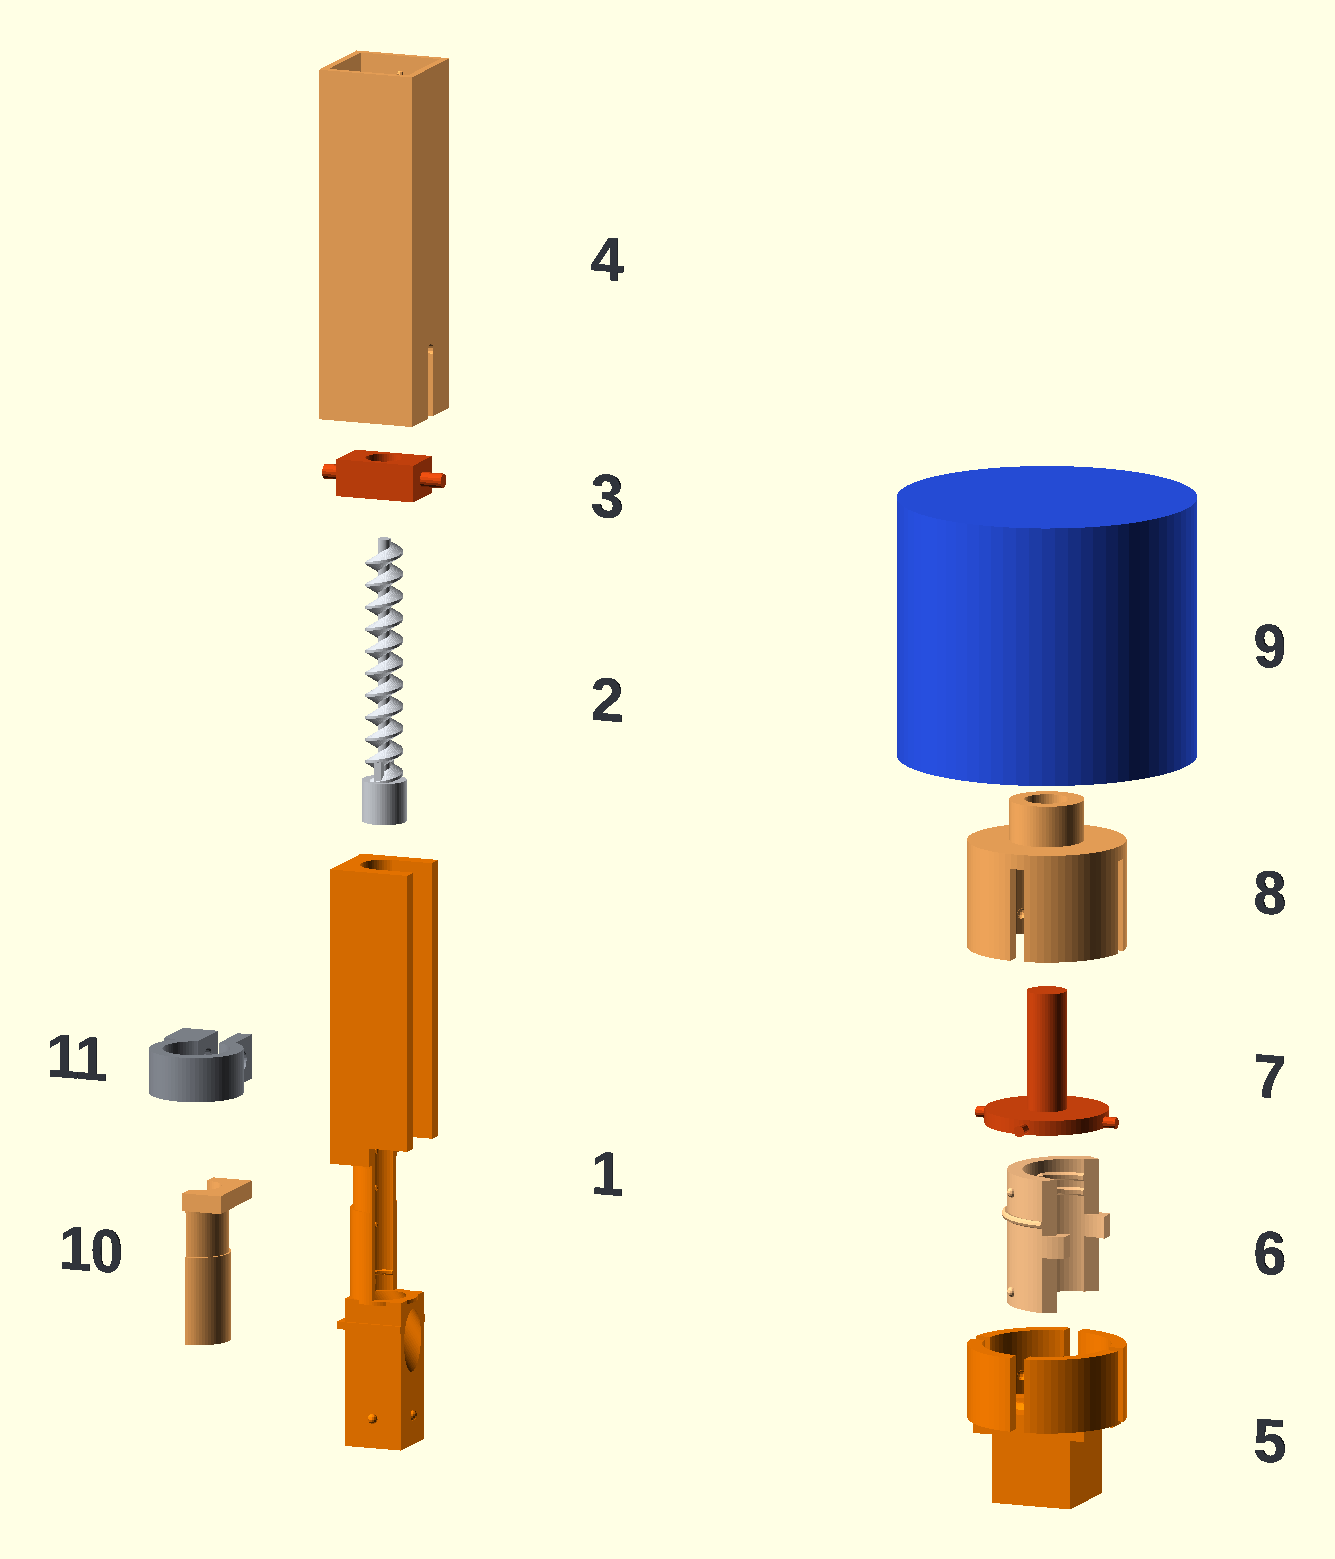
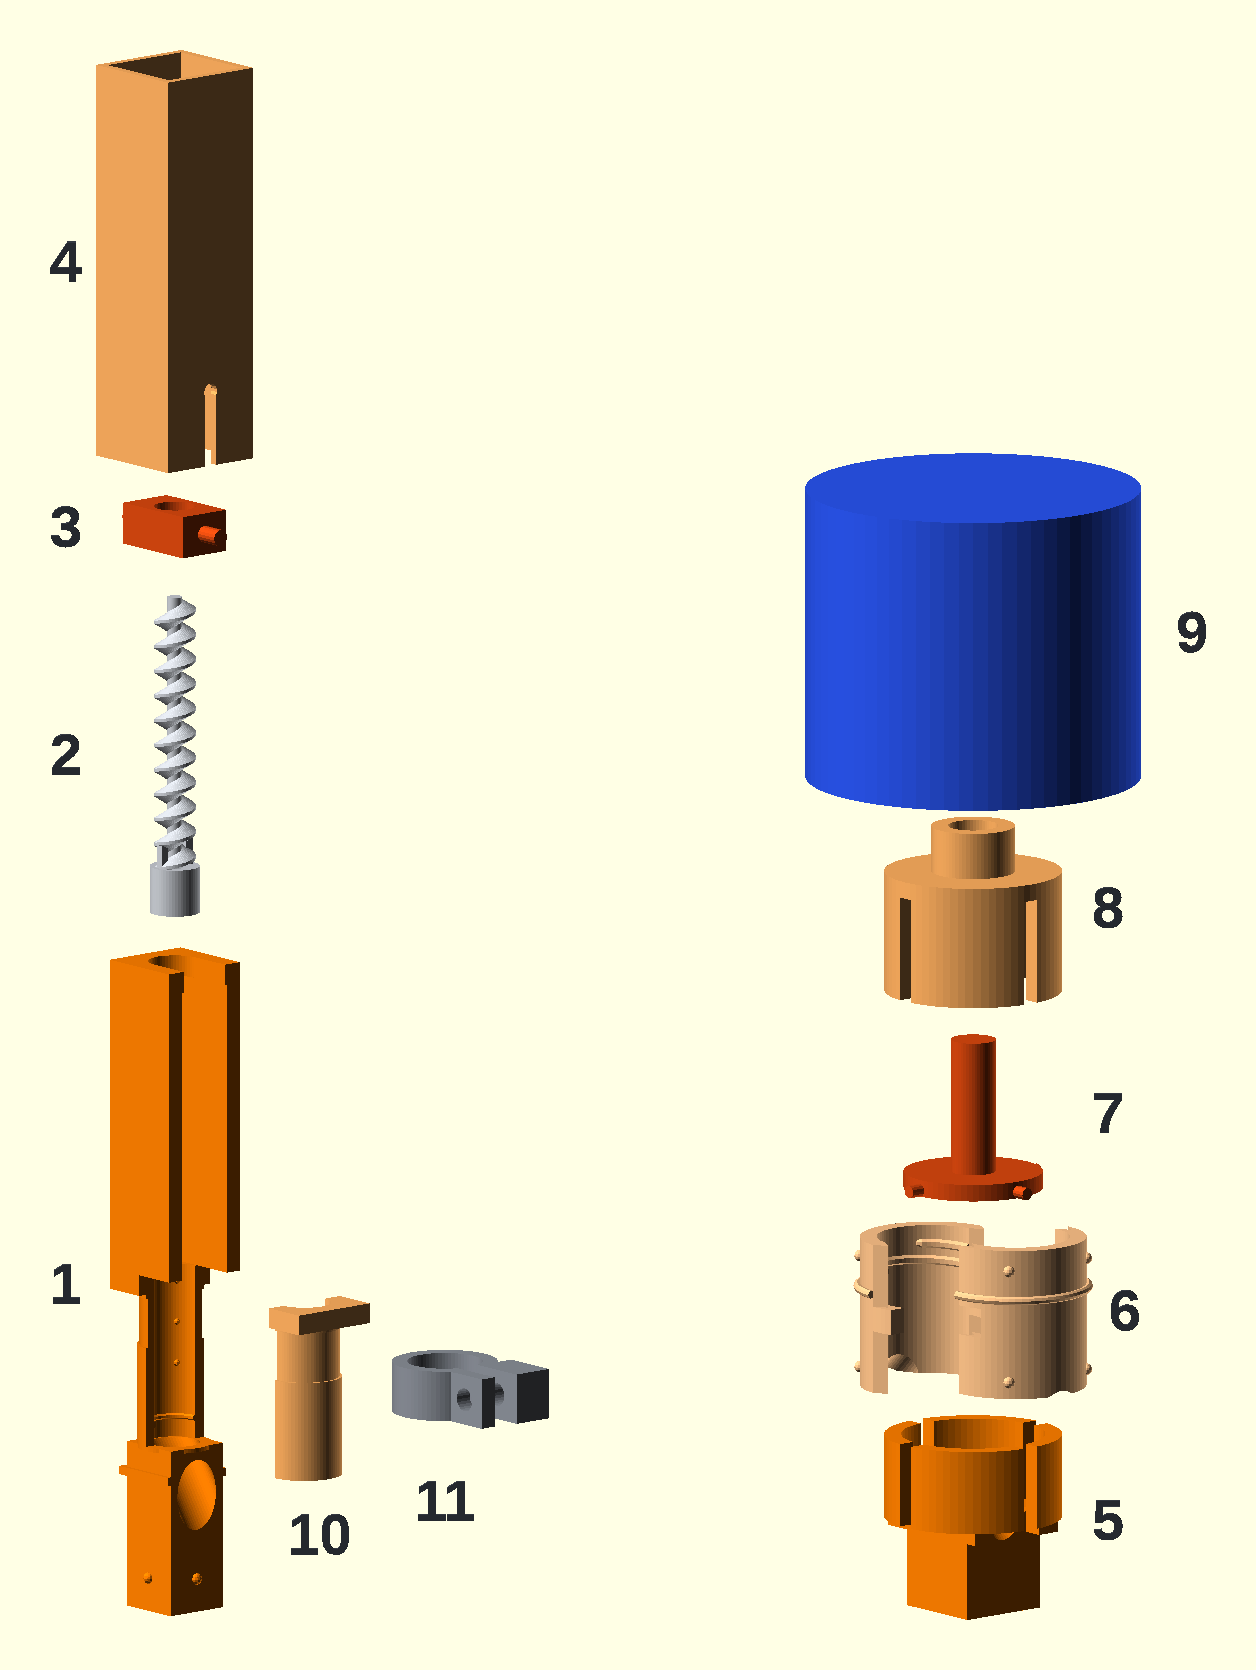
Add exploded views to the redesign workbook
Nine numbered OpenSCAD views taken apart, one for the whole device on the
workbook page and one each for steps 20, 24, 25, 26, 28 and 29. The view of
the actuator module in step 27 now shows the open half of the motor bay
with the detachable half beside it, and both halves of the split button
cylinder. The file timeline chart is redrawn for the page width and the
power diagram of step 29 runs top to bottom.

Claude-Session: https://claude.ai/code/session_01F3HmiRBuF2MN42cKPm81RC

diff --git a/content/MooMoo Redesign/index.md b/content/MooMoo Redesign/index.md
@@ -13,6 +13,9 @@ The redesign had four aims that run through all ten steps.
 - Put the computer, the drivers and the power inside one casing and run it from a power bank
 - Keep tuning the printed fits one number at a time, and keep every version
 
+![[MooMooRedesign_00_device_exploded.png]]
+The redesigned device taken apart in OpenSCAD. 1 bottom shell, 2 Raspberry Pi on its sliding plate, 3 the six actuator modules, 4 middle shell, 5 power bank in its pocket, 6 the two speakers, 7 top shell, 8 key, 9 head. The Pi, the power bank and the speakers are drawn as plain blocks of the size the sources allow for, everything else is imported from the SCAD files of May 2026
+
 ## How this workbook was written
 The steps were reconstructed from the project folder and not from a diary. Every dimension comes from an OpenSCAD source file, every print setting from a PrusaSlicer project, every electrical rule from the Pi code, and every date from the time a file was last saved, converted to Toronto time. The folder holds 175 design files, 47 OpenSCAD sources, 123 STL exports and 5 slicer projects, and 77 source files of Pi code and setup app. The images were rendered in OpenSCAD 2021.01 with the BOSL2 library from the same sources at a lower resolution. Parts are coloured orange and blue because those are the filament colours stored in the slicer projects. Where an image contains something that is not in the source files, such as the outline of a Raspberry Pi or a block standing in for the power bank, the caption says so.
 

diff --git a/content/MooMoo Redesign/24. Splitting the motor casing. Detachable half, clamp ring and a plug in base.md b/content/MooMoo Redesign/24. Splitting the motor casing. Detachable half, clamp ring and a plug in base.md
@@ -31,6 +31,9 @@ The module is what plugs into the bottom shell. Its square base of 8.1 mm drops 
 Reading the dates back, 20 April 2026 is the day the closed tube was given up. The body is cut in two at 16:14 and the question of how to hold the halves together is answered twice before 21:00. The first answer is a thin snap ring with two pins, exported and revised within eleven minutes. Twenty minutes later it is replaced by a different mechanism, a ring with ears and a bolt, and that one is then exported five times between 19:38 and 20:36. The names say what happened at the printer that evening. Even bigger, very big, medium. Two weeks later the search runs the other way, toward smaller and stronger, and ends at 00:22 on 8 May. The slicer project of 12 May (step 27) confirms which parts won. It holds `ShaftBodyAdjustedKraweznik`, `ShaftBodySm` and `clampsmallerStronger`.
 
 # Prototyping
+![[MooMooRedesign_24_motor_casing_exploded.png]]
+The split motor casing. 1 main casing with the open half of the motor bay, 2 detachable half, 3 clamp ring, 4 the three closed around the bay. The motor and the bolt are not in the files
+
 ![[MooMooRedesign_24_shaftbody_split.png]]
 OpenSCAD view of `ShaftBody.scad` and `ShaftBodyAdjustedKraweznik.scad`. 1 main casing with the motor bay open, 2 detachable half, 3 clamp ring, 4 main casing of the stopper version with the plate above the square base
 

diff --git a/content/MooMoo Redesign/26. Printed lead screw v1 to v5 and the elevator nut.md b/content/MooMoo Redesign/26. Printed lead screw v1 to v5 and the elevator nut.md
@@ -32,6 +32,9 @@ The screw was taken out of the actuator file and given its own source on 5 May (
 Reading the dates back, 12 May is one of the two densest days of the whole folder with 21 design files, one fewer than the day before. The screw exports are 105, 43, 32, 6, 39, 26, 24, 104 and 25 minutes apart. The names tell the first half of the day in plain words. Longer shaft, larger D shaft, deeper hole again, then everything. After that the names give up describing and start counting, v1 to v5, which is what happens when the changes become too small or too many to name. The two long gaps of about 105 minutes sit at the start and before v4. The day ends with the nut and not the screw. At 22:11 the elevator is exported with a bigger slop, so the last problem of the day was the fit between the two and the answer was to open up the nut. The slicer project for v5 was saved five minutes after midnight.
 
 # Prototyping
+![[MooMooRedesign_26_screw_nut_lifter_exploded.png]]
+1 screw v5 with the D shaft socket at its foot, 2 elevator nut with its two pegs, 3 lifter, 4 the three together, the lifter drawn translucent
+
 ![[MooMooRedesign_26_screw_evolution.png]]
 OpenSCAD view. 1 the whole actuator of 28 December 2025 with its 1.5 mm pitch, 2 the shaft body of 28 March 2026, 3 `screw.scad` of 5 May, 4 `screwReducedDshaftCylninder.scad` of 12 May, 5 the elevator nut
 

diff --git a/content/MooMoo Redesign/29. Power bank pocket, speaker mounts and the shared 5 V rail.md b/content/MooMoo Redesign/29. Power bank pocket, speaker mounts and the shared 5 V rail.md
@@ -29,6 +29,9 @@ That decision shows up in two places in the folder. In the middle shell it is a 
 Reading the dates back, the pocket and the power rules belong to the same ten days. The first pocket was exported on the afternoon of 11 May, two days after the file that protects the configuration against a power cut. The adjusted pocket was exported at 10:57 on 19 May, and the driver that staggers the motors was saved between 14:08 and 17:55 on the same day. One reading is that the device ran from the power bank for the first time that day and that the code was changed in answer to what happened. After 21 May no design file in the folder was saved again. The only later activity is software, two months on, and it is about reaching the device without a cable.
 
 # Prototyping
+![[MooMooRedesign_29_middle_shell_exploded.png]]
+1 middle shell, 2 the pocket on its outside, 3 power bank lifted out, drawn as a block of the size the pocket allows, 4 zip tie slots in the far wall, 5 the two speakers, drawn as 50 mm discs
+
 ## The pocket
 ![[MooMooRedesign_29_middle_casing_empty.png]]
 OpenSCAD view of `middleCasingHooksPowerPocketandZipSpeakers.scad`. The pocket runs along the near long wall. The notch at its right end opens the end wall of the pocket from 20 mm above the lower edge to the top

diff --git a/content/MooMoo Redesign/25. Character head with an angle key and a round of small print adjustments.md b/content/MooMoo Redesign/25. Character head with an angle key and a round of small print adjustments.md
@@ -27,6 +27,9 @@ The second half of this step is a list. Between 9 and 19 May 2026 many parts wer
 Reading the dates back, the head was drawn on the evening after the clamp ring evening of step 24. The order of that week is mechanism first, character second, and both within two days. The head itself needed one correction, made 21 minutes after its first export, and was then left alone. The key is where the time went. Its cube end was 9.5 mm in April, 9 mm late on 11 May and 9.9 mm just after midnight, all for a socket of 10 mm. The fit was approached from both sides within an hour and a half, and the grip dots of the socket were halved in the same minute that the last key was saved. One reading is that the cube and the grip dots were fighting each other, and that the fit only settled once both were changed together.
 
 # Prototyping
+![[MooMooRedesign_25_head_key_shell_exploded.png]]
+Head, key and top shell pulled apart along the length of the device. 1 top shell with the square holder hole in its front wall, 2 key, its cube goes into the shell and its disc and blade into the head, 3 head with the socket on its back
+
 ![[MooMooRedesign_25_head_front.png|560]]
 OpenSCAD view of `moomooHead.scad`
 

diff --git a/content/MooMoo Redesign/20. Return to the pin. From a two part pin to a printed lead screw.md b/content/MooMoo Redesign/20. Return to the pin. From a two part pin to a printed lead screw.md
@@ -37,6 +37,9 @@ The middle pin is a hollow sleeve of 9.8 by 8.8 by 54 mm with a keyed hole in it
 > [!todo] TO FILL
 > Which CAD tool the November pins came from, and what the notch, skewed and larger hole variants were testing.
 
+![[MooMooRedesign_20_two_part_pin_exploded.png|380]]
+The notch variant taken apart. 1 top pin, 2 middle pin sleeve, 3 the two as they sit in the exported files, the peg of the top pin in the keyed hole of the sleeve
+
 ![[MooMooRedesign_20_body4_nov2025.png|500]]
 Body4, 16 November 2025
 
@@ -59,6 +62,9 @@ The square nut matters for everything that follows. A square nut cannot turn ins
 ## The first lead screw actuator, 28 December 2025
 ![[MooMooRedesign_20_shaft_mechanism_dec2025.png|420]]
 Section through shaft mechanism.scad as saved on 28 December 2025. The motor sits in the round cover at the bottom, the printed screw runs up through the open bridge and the square nut rides on it
+
+![[MooMooRedesign_20_first_actuator_exploded.png|460]]
+The three parts of the December file pulled apart. 1 body with the motor cover and the open bridge, 2 threaded rod with the D shaft socket, 3 square nut
 
 | Part | Value in the December file |
 |---|---|

diff --git a/content/MooMoo Redesign/27. One actuator module as a print set. Shorter piston, split button cylinder and a TPU braille cap.md b/content/MooMoo Redesign/27. One actuator module as a print set. Shorter piston, split button cylinder and a TPU braille cap.md
@@ -32,7 +32,7 @@ Reading the dates back, 11 May is the day the stack lost height. The post in the
 
 # Prototyping
 ![[MooMooRedesign_27_actuator_exploded.png]]
-OpenSCAD view of one actuator module with every part taken from the May 2026 sources. 1 shaft body with stopper, 2 printed lead screw, 3 elevator nut, 4 lifter, 5 transfer cube, 6 one half of the split button cylinder, 7 piston, 8 presser casing, 9 braille cap, 10 detachable half of the motor cover, 11 clamp ring
+OpenSCAD view of one actuator module with every part taken from the May 2026 sources. 1 shaft body with the stopper plate and the open half of the motor bay, 2 printed lead screw, 3 elevator nut, 4 lifter, 5 transfer cube, 6 the two halves of the split button cylinder, 7 piston, 8 presser casing, 9 braille cap, 10 detachable half that closes the bay of 1, 11 clamp ring
 
 ![[MooMooRedesign_27_button_stack_may2026.png]]
 The upper parts laid out side by side. 1 lifter, 2 transfer cube, 3 and 4 the two halves of the split button cylinder, 5 piston, 6 presser casing, 7 braille cap

diff --git a/content/MooMoo Redesign/28. Sliding Raspberry Pi plate and motor driver clips in the bottom shell.md b/content/MooMoo Redesign/28. Sliding Raspberry Pi plate and motor driver clips in the bottom shell.md
@@ -32,6 +32,9 @@ Reading the dates back, the sliding plate was drawn in the four days after the w
 The Pi code was being written in the same days. `config.py` and the setup service were saved on 9 May, the calibration page on 16 May and the GPIO driver on 19 May, so the computer was going into the shell at the same time as its software went onto the computer.
 
 # Prototyping
+![[MooMooRedesign_28_bottom_shell_exploded.png]]
+The bottom shell in its position of use. 1 shell, 2 sliding plate lifted out of its rails, 3 Raspberry Pi Zero 2 W drawn as an outline, 4 one actuator module above its socket, 5 one module seated, its stopper plate resting on the socket tube, 6 the three clips for the driver boards on the near wall
+
 ## From fixed posts to a plate
 ![[MooMooRedesign_28_bottom_casing_dec2025.png]]
 `bottomCasing.stl` of 28 December 2025, turned over into its position of use. Six sockets and four round posts on the far wall
